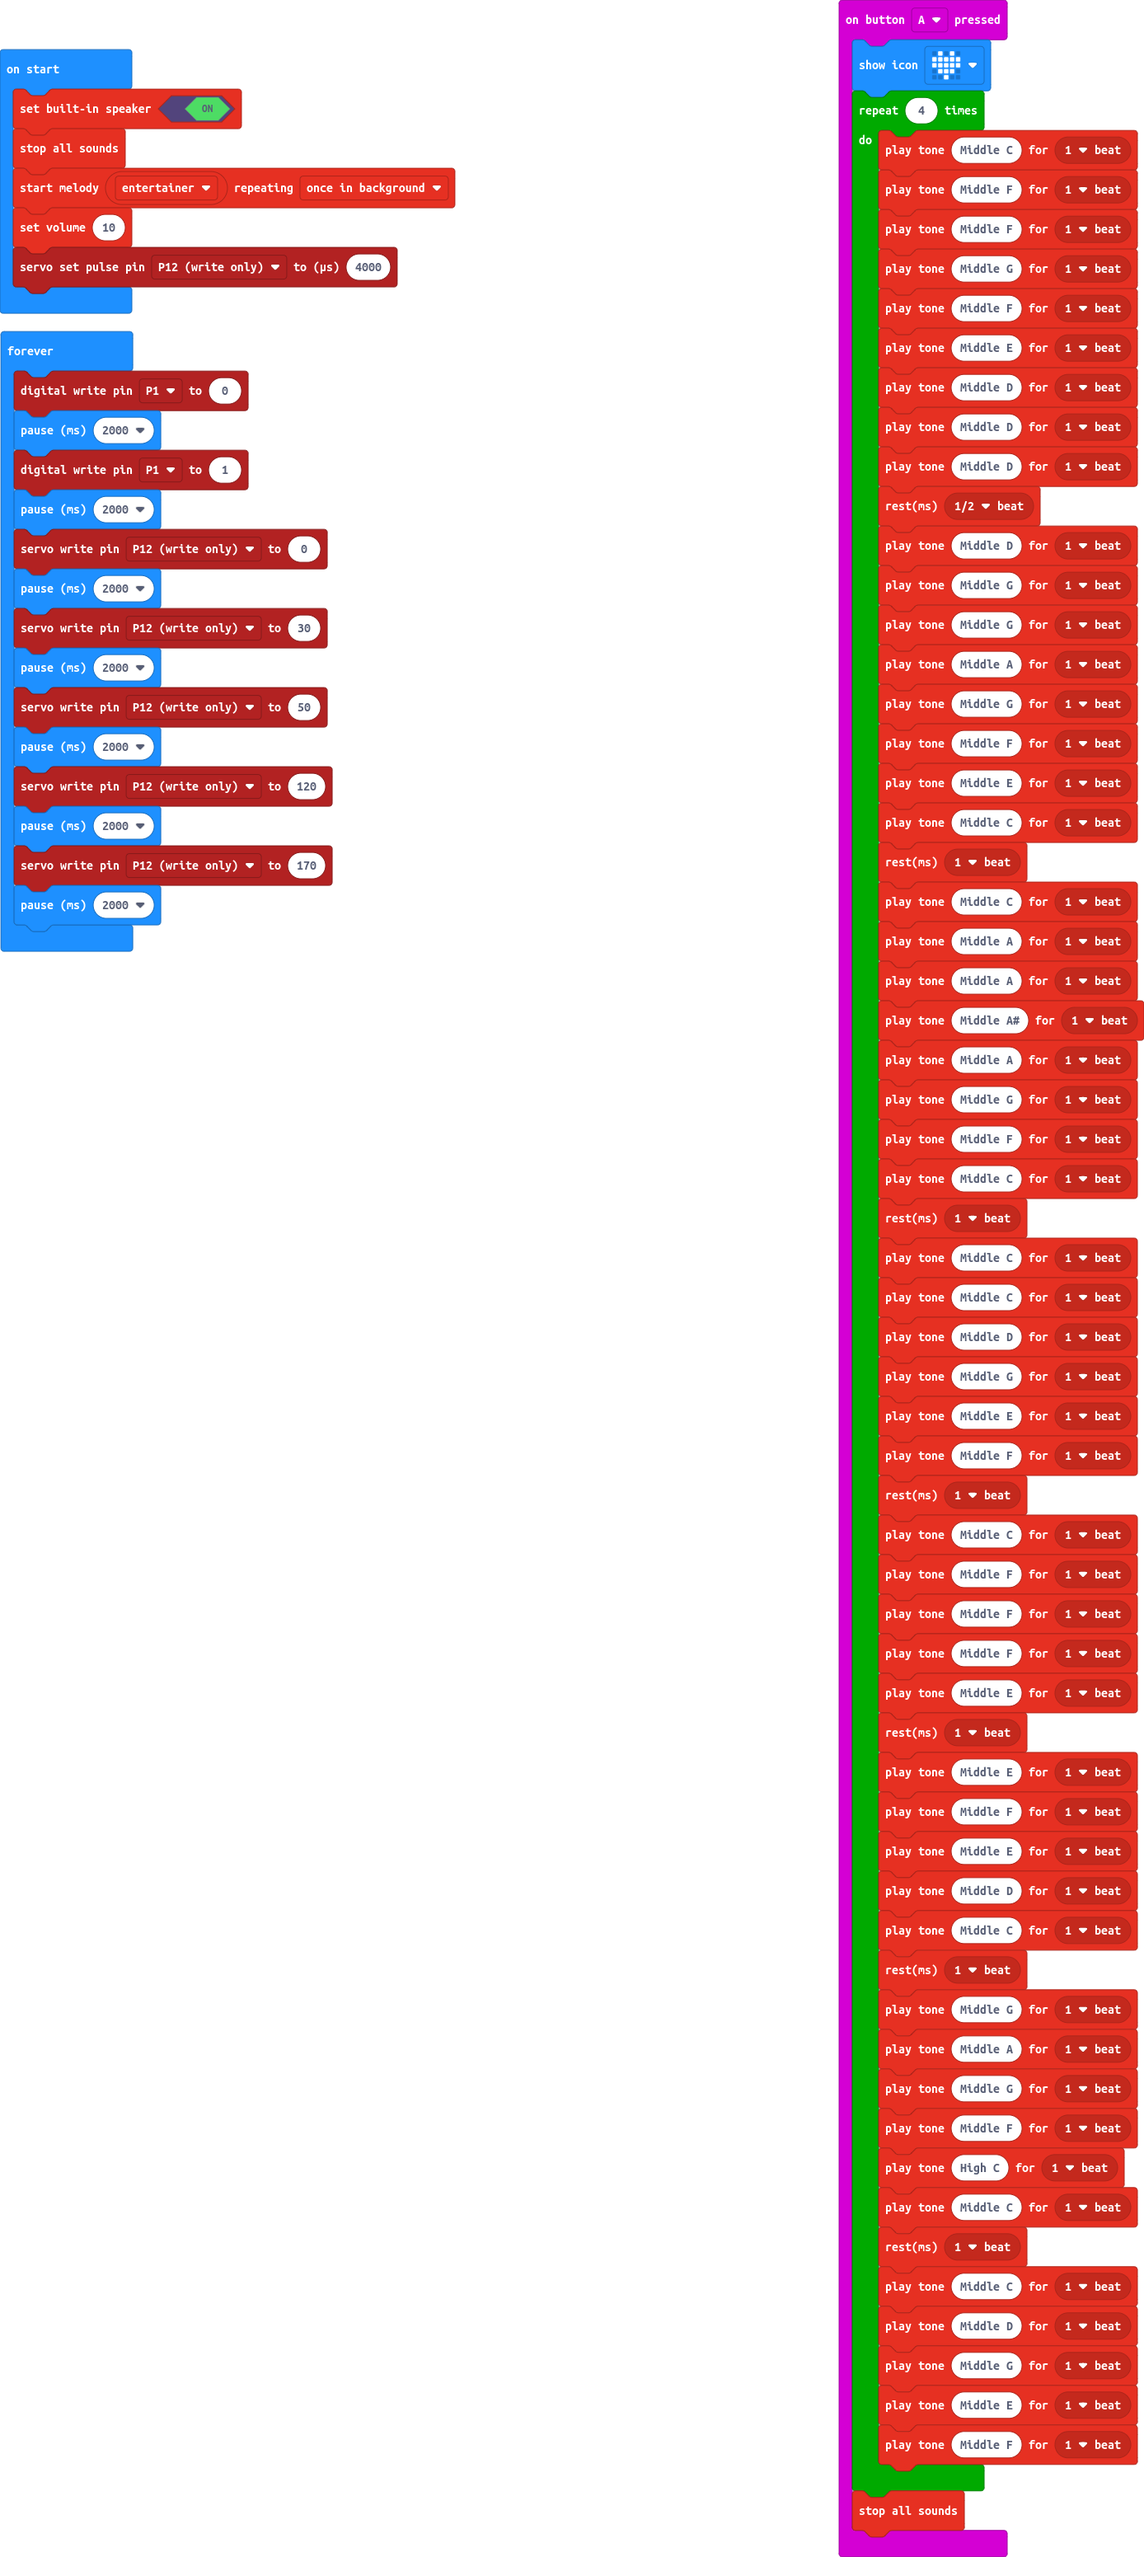
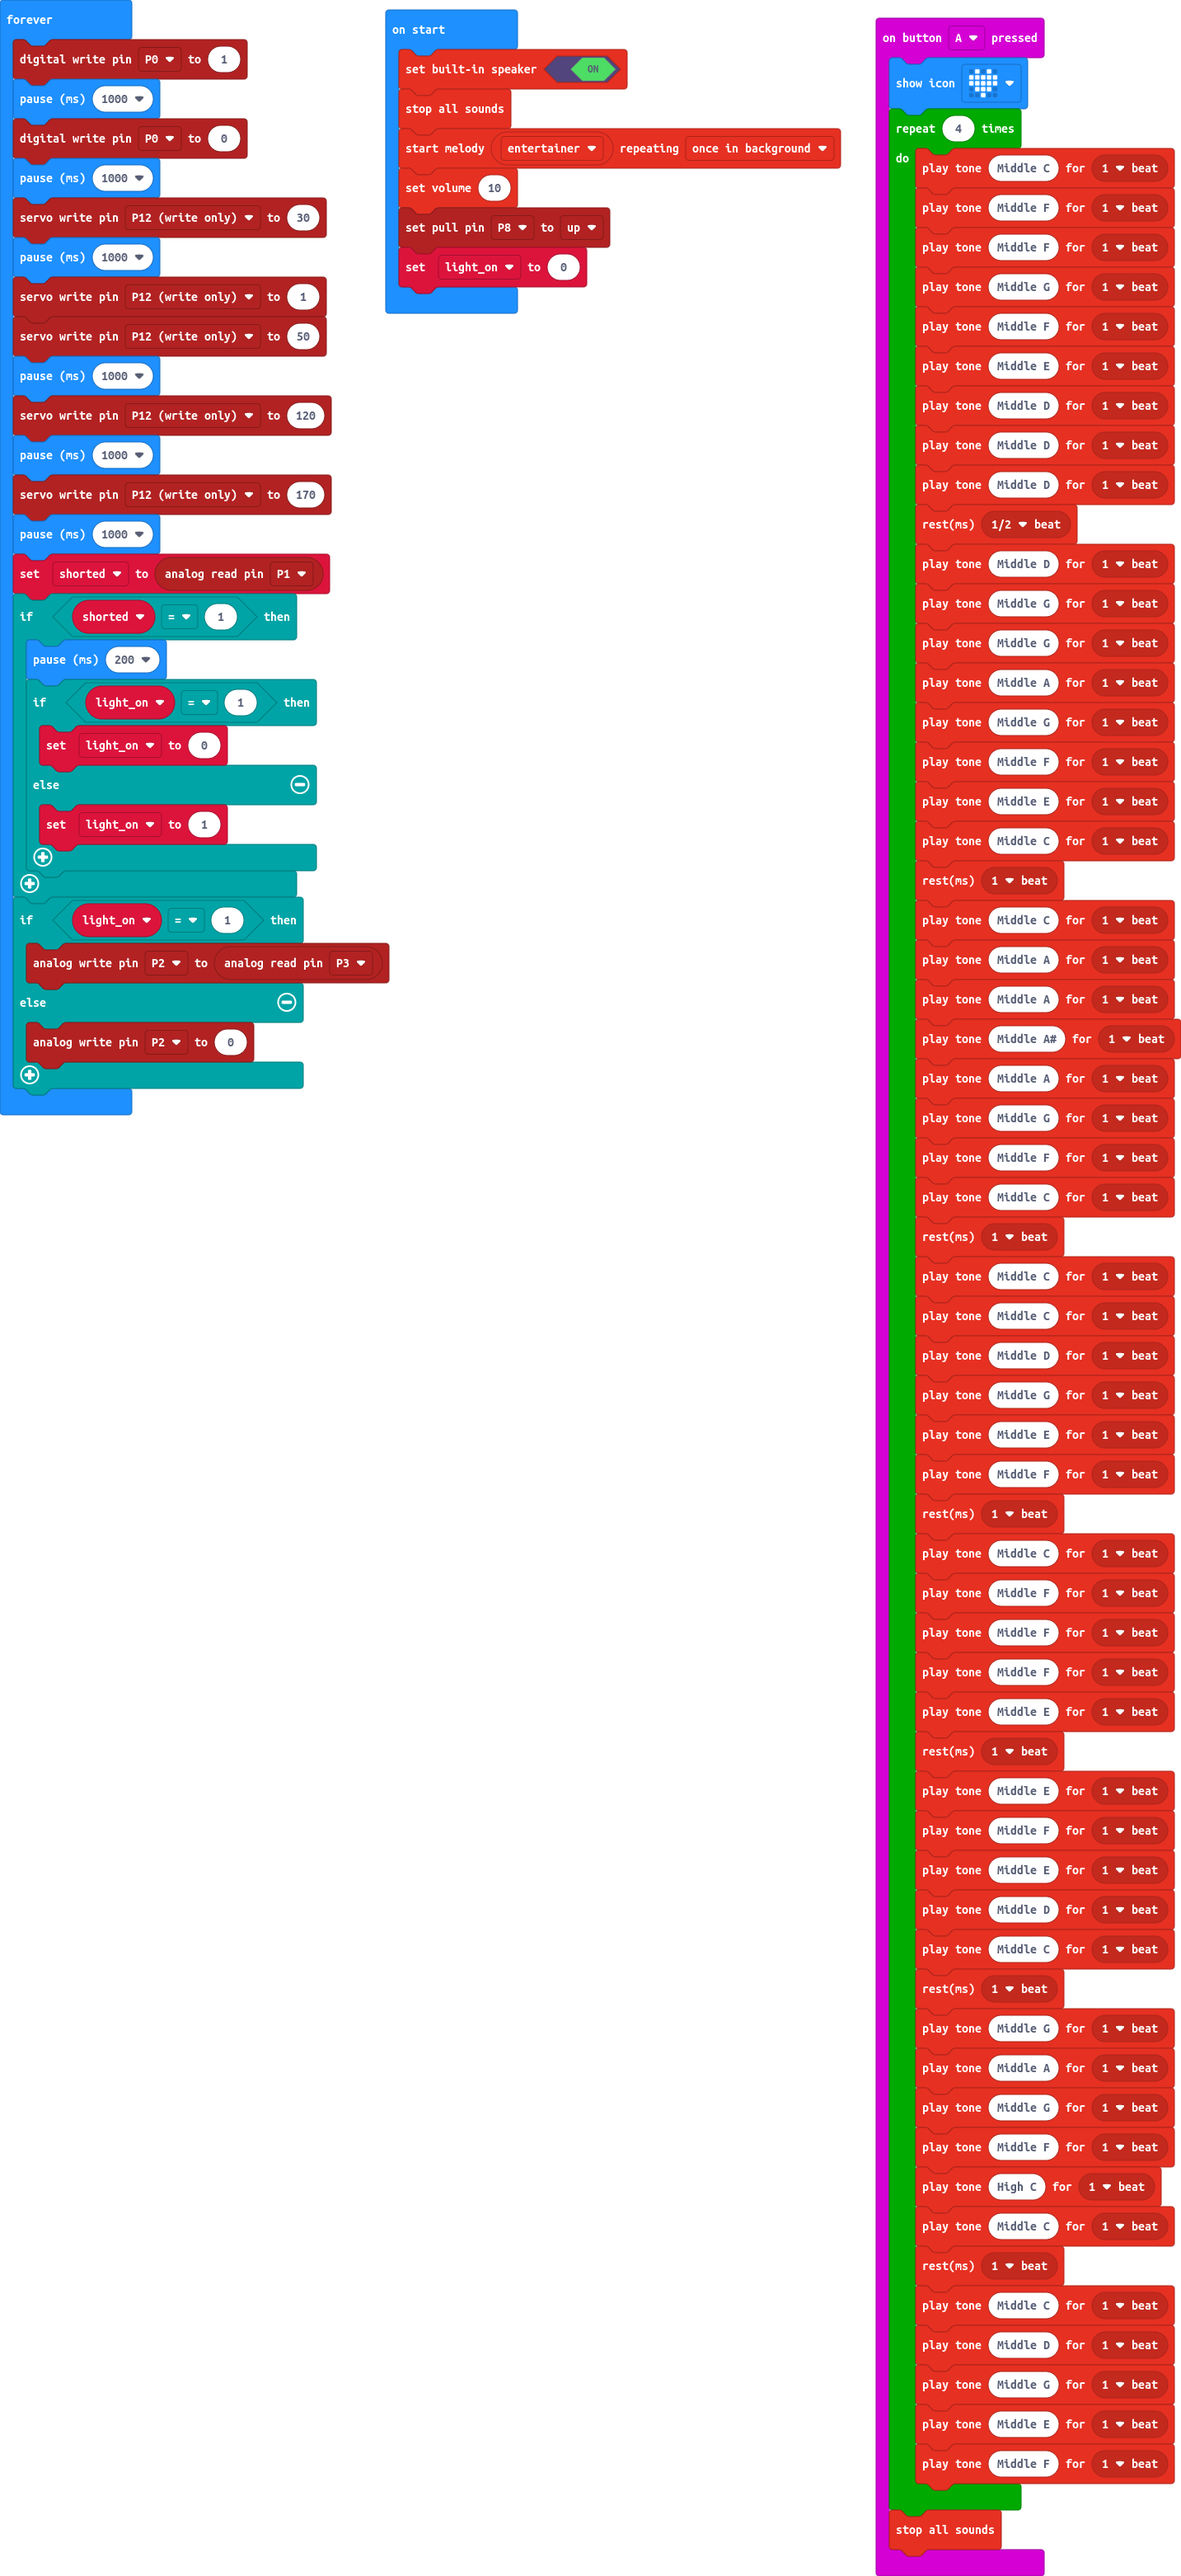
Update pxt.json, main.blocks, main.ts

Changed region(s): [[0.0, 0.0, 1.0, 1.0], [0.8674, 0.9903, 0.8984, 1.0]]

diff --git a/main.ts b/main.ts
@@ -63,24 +63,39 @@ input.onButtonPressed(Button.A, function () {
     }
     music.stopAllSounds()
 })
+let shorted = 0
 music.setBuiltInSpeakerEnabled(true)
 music.stopAllSounds()
 music.startMelody(music.builtInMelody(Melodies.Entertainer), MelodyOptions.OnceInBackground)
 music.setVolume(10)
-pins.servoSetPulse(AnalogPin.P12, 4000)
+pins.setPull(DigitalPin.P8, PinPullMode.PullUp)
+let light_on = 0
 basic.forever(function () {
-    pins.digitalWritePin(DigitalPin.P1, 0)
-    basic.pause(2000)
-    pins.digitalWritePin(DigitalPin.P1, 1)
-    basic.pause(2000)
-    pins.servoWritePin(AnalogPin.P12, 0)
-    basic.pause(2000)
+    pins.digitalWritePin(DigitalPin.P0, 1)
+    basic.pause(1000)
+    pins.digitalWritePin(DigitalPin.P0, 0)
+    basic.pause(1000)
     pins.servoWritePin(AnalogPin.P12, 30)
-    basic.pause(2000)
+    basic.pause(1000)
+    pins.servoWritePin(AnalogPin.P12, 1)
     pins.servoWritePin(AnalogPin.P12, 50)
-    basic.pause(2000)
+    basic.pause(1000)
     pins.servoWritePin(AnalogPin.P12, 120)
-    basic.pause(2000)
+    basic.pause(1000)
     pins.servoWritePin(AnalogPin.P12, 170)
-    basic.pause(2000)
+    basic.pause(1000)
+    shorted = pins.analogReadPin(AnalogPin.P1)
+    if (shorted == 1) {
+        basic.pause(200)
+        if (light_on == 1) {
+            light_on = 0
+        } else {
+            light_on = 1
+        }
+    }
+    if (light_on == 1) {
+        pins.analogWritePin(AnalogPin.P2, pins.analogReadPin(AnalogPin.P3))
+    } else {
+        pins.analogWritePin(AnalogPin.P2, 0)
+    }
 })
